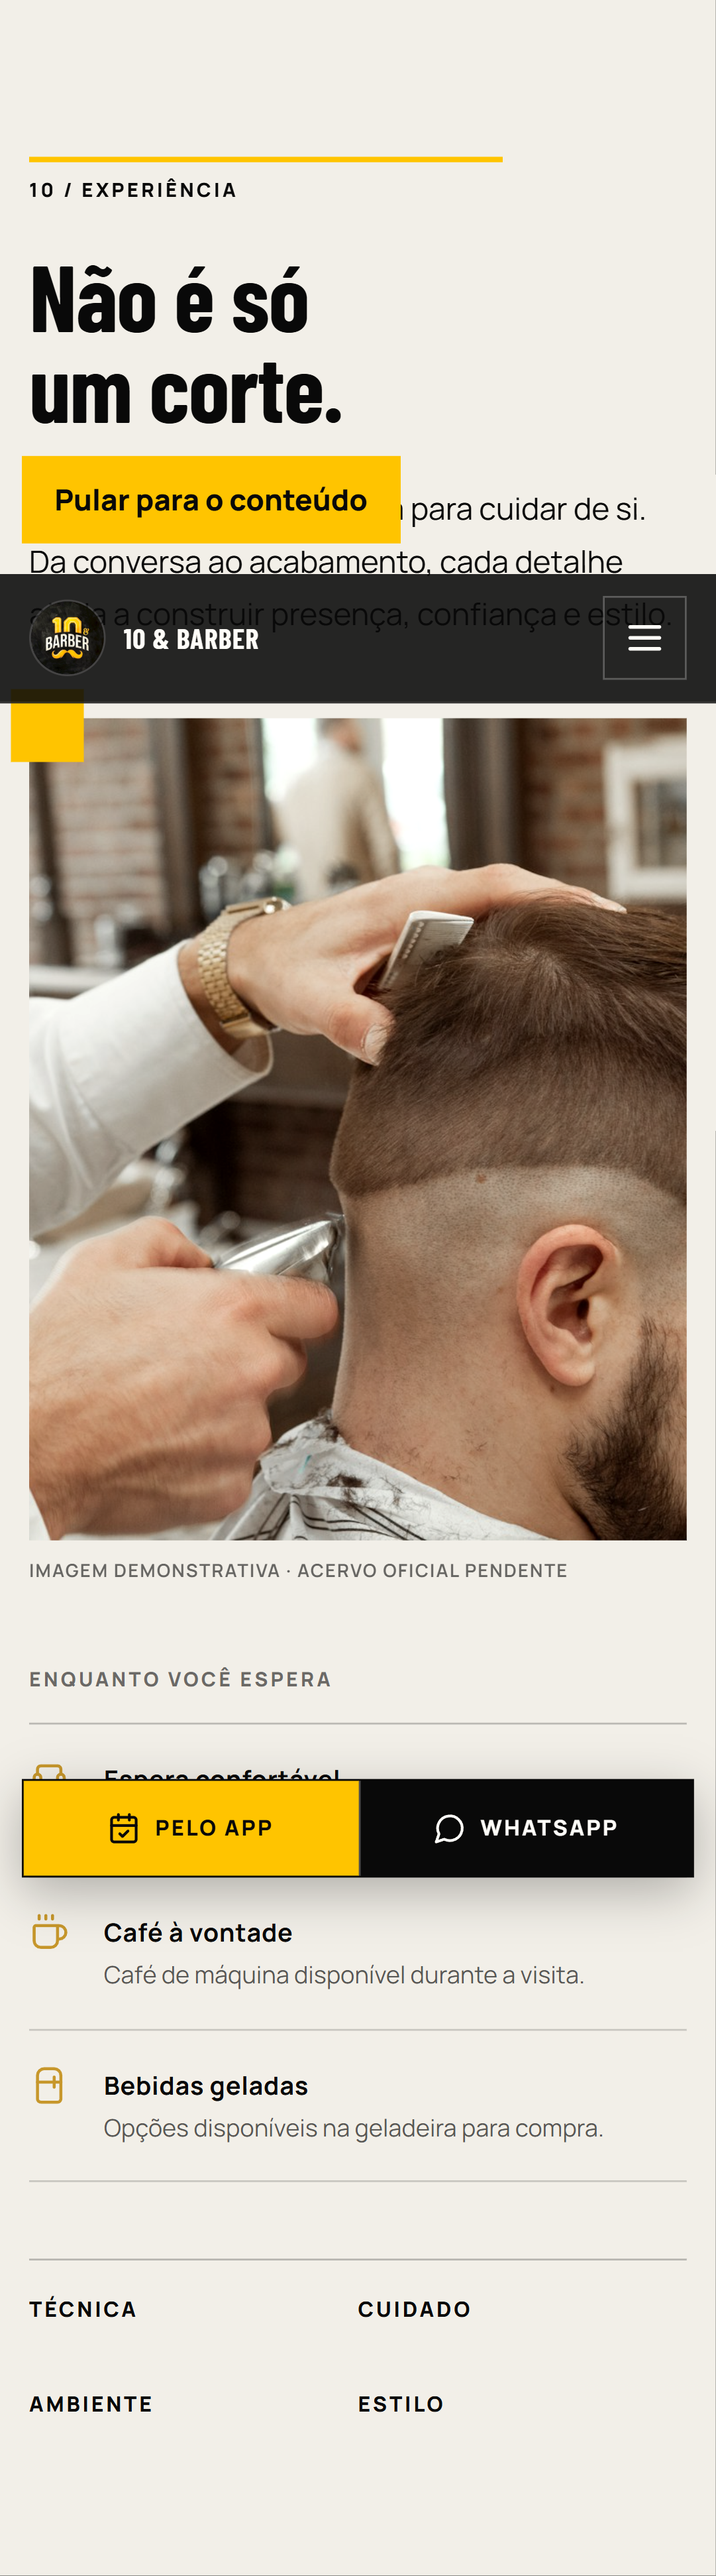
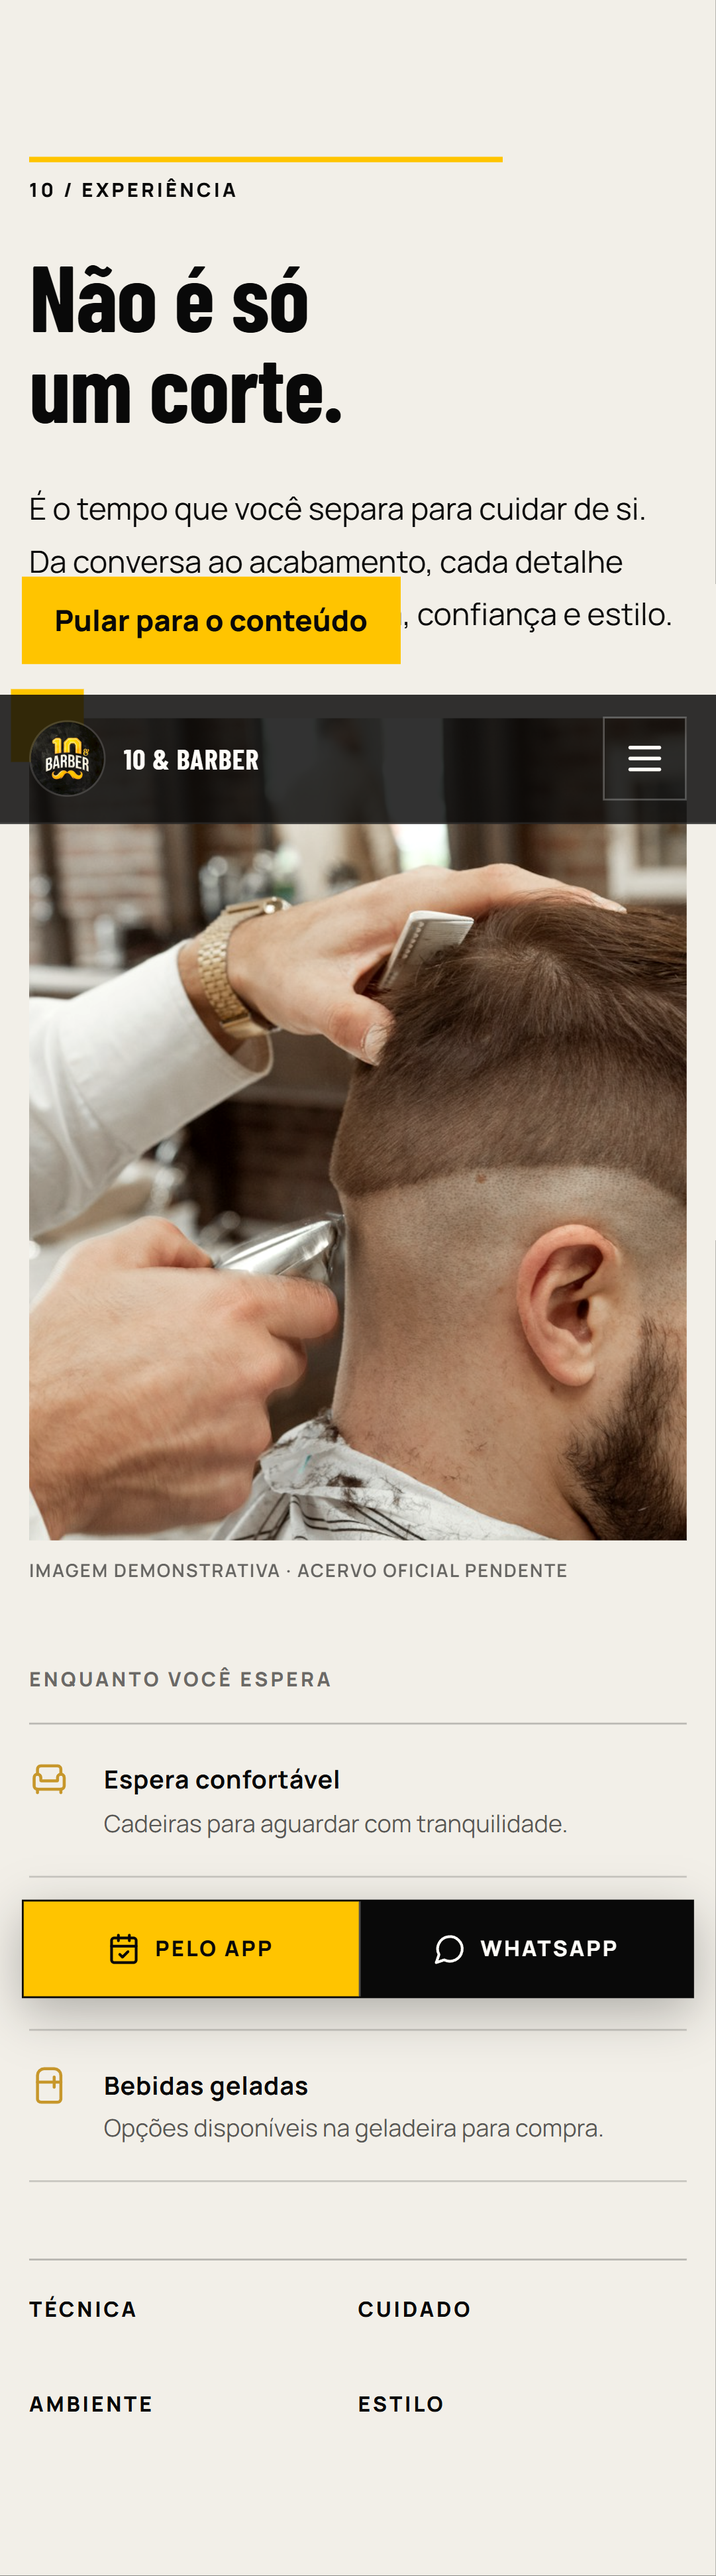
Subindo mais correcoes

Changed region(s): [[0.0, 0.1557, 1.0, 0.3425], [0.0, 0.685, 0.9769, 0.8096]]

diff --git a/codex-premium-landing-page-kit-v2/tests/home.spec.ts b/codex-premium-landing-page-kit-v2/tests/home.spec.ts
@@ -58,6 +58,10 @@ test('home comunica a marca e oferece o agendamento', async ({ page }, testInfo)
   await expect(page.getByText('Platinado', { exact: true })).toBeVisible()
   await expect(page.getByText('Café à vontade', { exact: true })).toBeVisible()
   await expect(page.getByText('Bebidas geladas', { exact: true })).toBeVisible()
+  await expect(page.locator('#planos').getByRole('link', { name: /consultar condições/i })).toHaveAttribute(
+    'href',
+    /text=.*consultar.*condi%C3%A7%C3%B5es.*planos/i,
+  )
 
   const hasHorizontalOverflow = await page.evaluate(() => document.documentElement.scrollWidth > document.documentElement.clientWidth + 1)
   expect(hasHorizontalOverflow).toBe(false)
@@ -96,6 +100,45 @@ test('menu móvel é acessível e a página não cria overflow', async ({ page }
     const hasOverflow = await page.evaluate(() => document.documentElement.scrollWidth > document.documentElement.clientWidth + 1)
     expect(hasOverflow, `overflow horizontal em ${width}px`).toBe(false)
   }
+
+  for (const width of [430, 760]) {
+    await page.setViewportSize({ width, height: 800 })
+    const firstImage = await page.locator('.gallery-grid figure').nth(0).boundingBox()
+    const secondImage = await page.locator('.gallery-grid figure').nth(1).boundingBox()
+    const fourthImage = await page.locator('.gallery-grid figure').nth(3).boundingBox()
+    const fifthImage = await page.locator('.gallery-grid figure').nth(4).boundingBox()
+
+    expect(firstImage).not.toBeNull()
+    expect(secondImage).not.toBeNull()
+    expect(fourthImage).not.toBeNull()
+    expect(fifthImage).not.toBeNull()
+    expect(Math.abs((firstImage?.y ?? 0) - (secondImage?.y ?? 0)), `galeria desalinhada em ${width}px`).toBeLessThan(1)
+    expect(secondImage?.x ?? 0, `segunda coluna vazia em ${width}px`).toBeGreaterThan((firstImage?.x ?? 0) + (firstImage?.width ?? 0))
+    expect(
+      Math.abs(((fourthImage?.y ?? 0) + (fourthImage?.height ?? 0)) - ((fifthImage?.y ?? 0) + (fifthImage?.height ?? 0))),
+      `fim da galeria desalinhado em ${width}px`,
+    ).toBeLessThan(1)
+
+    await page.locator('.gallery-grid').screenshot({ path: resolve(screenshotDir, `gallery-${width}.png`) })
+  }
+
+  await page.setViewportSize({ width: 430, height: 676 })
+  const servicesGrid = await page.locator('.services-grid').boundingBox()
+  const servicesImage = await page.locator('.services-visual').boundingBox()
+  expect(servicesGrid).not.toBeNull()
+  expect(servicesImage).not.toBeNull()
+  expect(
+    Math.abs(
+      ((servicesGrid?.x ?? 0) + (servicesGrid?.width ?? 0) / 2) -
+      ((servicesImage?.x ?? 0) + (servicesImage?.width ?? 0) / 2),
+    ),
+    'imagem de serviços descentralizada em 430px',
+  ).toBeLessThan(1)
+  await page.locator('.services-visual').screenshot({ path: resolve(screenshotDir, 'services-centered-mobile.png') })
+
+  await page.evaluate(() => window.scrollTo(0, 0))
+  await page.screenshot({ path: resolve(screenshotDir, 'hero-mobile-compact.png') })
+  await expect(page.locator('.hero')).toHaveCSS('min-height', '760px')
 })
 
 test('conteúdo aparece progressivamente durante a rolagem', async ({ page }) => {
@@ -114,4 +157,32 @@ test('movimento reduzido remove animações perceptíveis', async ({ page }) => 
   const revealOpacity = await page.locator('#experiencia .experience-copy').evaluate((element) => getComputedStyle(element).opacity)
   expect(Number.parseFloat(duration)).toBeLessThan(0.001)
   expect(revealOpacity).toBe('1')
+})
+
+test('mantém o layout mobile ao voltar de outra aba', async ({ context, page }, testInfo) => {
+  test.skip(testInfo.project.name !== 'mobile-chrome', 'Cenário específico para mobile')
+  await page.setViewportSize({ width: 338, height: 655 })
+  await page.goto(process.env.E2E_EXTERNAL_URL ?? '/')
+
+  const assertMobileViewport = async () => {
+    const viewport = await page.evaluate(() => ({
+      innerWidth: window.innerWidth,
+      mobileQuery: window.matchMedia('(max-width: 390px)').matches,
+      hasOverflow: document.documentElement.scrollWidth > document.documentElement.clientWidth + 1,
+    }))
+    const title = await page.locator('.hero h1').boundingBox()
+
+    expect(viewport.innerWidth).toBe(338)
+    expect(viewport.mobileQuery).toBe(true)
+    expect(viewport.hasOverflow).toBe(false)
+    expect((title?.x ?? 0) + (title?.width ?? 0)).toBeLessThanOrEqual(338)
+  }
+
+  await assertMobileViewport()
+  const otherTab = await context.newPage()
+  await otherTab.goto('about:blank')
+  await otherTab.bringToFront()
+  await page.bringToFront()
+  await assertMobileViewport()
+  await page.screenshot({ path: resolve(screenshotDir, 'hero-mobile-tab-return.png') })
 })

diff --git a/codex-premium-landing-page-kit-v2/src/styles.css b/codex-premium-landing-page-kit-v2/src/styles.css
@@ -42,6 +42,7 @@
 }
 
 html {
+  overflow-x: clip;
   scroll-behavior: smooth;
   scroll-padding-top: 84px;
 }
@@ -51,6 +52,11 @@ body {
   min-width: 320px;
   overflow-x: clip;
   background: var(--ink);
+}
+
+#root {
+  min-width: 0;
+  overflow-x: clip;
 }
 
 body::-webkit-scrollbar {
@@ -1645,7 +1651,7 @@ figcaption {
   }
 
   .hero {
-    min-height: 820px;
+    min-height: 760px;
     align-items: end;
   }
 
@@ -1770,7 +1776,7 @@ figcaption {
     position: relative;
     top: auto;
     width: 84%;
-    margin-left: auto;
+    margin-inline: auto;
   }
 
   .services-content h2 {
@@ -1878,7 +1884,11 @@ figcaption {
   }
 
   .gallery-wide {
-    grid-column: span 2;
+    grid-column: span 1;
+  }
+
+  .gallery-grid figure:nth-child(5) {
+    grid-row: span 1;
   }
 
   .gallery-grid figcaption {

diff --git a/codex-premium-landing-page-kit-v2/src/components/Membership.tsx b/codex-premium-landing-page-kit-v2/src/components/Membership.tsx
@@ -1,5 +1,5 @@
 import { ArrowUpRight, Check } from 'lucide-react'
-import { WHATSAPP_URL } from '../data/site'
+import { PLANS_WHATSAPP_URL } from '../data/site'
 
 export function Membership() {
   return (
@@ -18,7 +18,7 @@ export function Membership() {
             <li><Check aria-hidden="true" /> Desconto em serviços extras</li>
           </ul>
           <p className="membership-disclaimer">Valores, frequência, regras e disponibilidade devem ser confirmados com a equipe.</p>
-          <a className="button button--dark" href={WHATSAPP_URL} target="_blank" rel="noreferrer">
+          <a className="button button--dark" href={PLANS_WHATSAPP_URL} target="_blank" rel="noreferrer">
             Consultar condições <ArrowUpRight aria-hidden="true" />
           </a>
         </div>

diff --git a/codex-premium-landing-page-kit-v2/src/data/site.ts b/codex-premium-landing-page-kit-v2/src/data/site.ts
@@ -3,6 +3,7 @@ export const BOOKING_URL = import.meta.env.VITE_BOOKING_URL || 'https://agendame
 export const INSTAGRAM_URL = import.meta.env.VITE_INSTAGRAM_URL || 'https://www.instagram.com/dezebarber/'
 export const WHATSAPP_URL = import.meta.env.VITE_WHATSAPP_URL ||
   'https://wa.me/5531984989858?text=Ol%C3%A1%21%20Vim%20pelo%20site%20da%2010%20%26%20Barber%20e%20gostaria%20de%20agendar%20um%20hor%C3%A1rio.'
+export const PLANS_WHATSAPP_URL = `${WHATSAPP_URL.split('?')[0]}?text=${encodeURIComponent('Olá! Vim pelo site da 10 & Barber e gostaria de consultar as condições dos planos.')}`
 
 export type NavItem = {
   label: string

diff --git a/codex-premium-landing-page-kit-v2/VISUAL-QA-CHECKLIST.md b/codex-premium-landing-page-kit-v2/VISUAL-QA-CHECKLIST.md
@@ -6,8 +6,8 @@ Registre evidências após abrir a página real. Não marque por inspeção ment
 
 - URL/ambiente: build de produção em `http://127.0.0.1:4173/`
 - Data: 08/10/2026
-- Viewports inspecionados: desktop 1280×720 e 1440×900; mobile 390×844 e 393×851; overflow automatizado em 320, 375, 390 e 430 px
-- Screenshots/arquivos: `screenshots/home-desktop.png`, `screenshots/home-mobile.png`, `screenshots/home-mobile-hero.png`, `screenshots/hero-desktop.png`, `screenshots/hero-mobile.png`, `screenshots/services-desktop.png`, `screenshots/services-mobile.png`, `screenshots/locations-desktop.png`, `screenshots/locations-mobile.png`, `screenshots/experience-desktop.png`, `screenshots/experience-mobile.png`
+- Viewports inspecionados: desktop 1280×720 e 1440×900; mobile 390×844, 393×851 e 430×676; galeria também verificada em 430 e 760 px; overflow automatizado em 320, 375, 390 e 430 px
+- Screenshots/arquivos: `screenshots/home-desktop.png`, `screenshots/home-mobile.png`, `screenshots/home-mobile-hero.png`, `screenshots/hero-mobile-compact.png`, `screenshots/hero-mobile-tab-return.png`, `screenshots/gallery-430.png`, `screenshots/gallery-760.png`, `screenshots/hero-desktop.png`, `screenshots/hero-mobile.png`, `screenshots/services-desktop.png`, `screenshots/services-mobile.png`, `screenshots/services-centered-mobile.png`, `screenshots/locations-desktop.png`, `screenshots/locations-mobile.png`, `screenshots/experience-desktop.png`, `screenshots/experience-mobile.png`
 - Navegadores: Google Chrome via Playwright
 
 ## Primeira crítica
@@ -49,6 +49,11 @@ Registre evidências após abrir a página real. Não marque por inspeção ment
 | Média | Desktop/mobile | A seção Experiência parecia dispersa e a coluna esquerda tinha espaço negativo excessivo | Reorganizar em uma grade clara: fotografia à esquerda, mensagem ao centro e comodidades ampliadas à direita; empilhar em ordem editorial no mobile | Sim |
 | Média | Screenshots | Imagens lazy não apareciam na captura de página inteira | Rolagem controlada para carregar mídia antes da screenshot | Sim |
 | Baixa | Todos | Pacotes de fonte carregavam alfabetos desnecessários | Carregar apenas os arquivos Latin necessários ao português | Sim |
+| Alta | Mobile 391–760 px | A primeira foto vertical da galeria deixava a segunda coluna vazia porque as imagens largas ainda ocupavam duas colunas | Manter as imagens largas em uma coluna nesse intervalo e alinhar o fim da composição | Sim |
+| Média | Mobile | O conteúdo do hero começava baixo demais e criava espaço excessivo abaixo do cabeçalho | Reduzir a altura mínima mobile de 820 para 760 px, preservando respiro e legibilidade | Sim |
+| Alta | Mobile/retorno de aba | O modo responsivo do DevTools exibiu uma restauração visual cortada em 338×655 | Bloquear overflow horizontal também em `html` e `#root`; adicionar regressão com troca real de abas na build local e no deploy | Sim; a falha não foi reproduzida no Chrome automatizado |
+| Baixa | Mobile | A fotografia ativa da seção de serviços ficava encostada à direita | Centralizar o quadro de 84% com margem automática nos dois lados | Sim |
+| Média | Planos | O CTA “Consultar condições” reutilizava a mensagem genérica de agendamento | Criar um link de WhatsApp específico solicitando as condições dos planos | Sim |
 
 ## Segunda passada obrigatória
 
@@ -59,7 +64,7 @@ Registre evidências após abrir a página real. Não marque por inspeção ment
 - [x] Revisei estados hover, focus e active; não há controles desabilitados nesta versão
 - [x] Revisei motion e `prefers-reduced-motion`
 - [x] Reinspecionei screenshots desktop e mobile após as mudanças
-- [x] Registrei o que mudou perceptivelmente: catálogo expandido, três unidades, horários, escolha entre app/WhatsApp, comodidades da experiência e nova hierarquia tipográfica com Barlow Condensed, títulos menores e acentos livres de colisão
+- [x] Registrei o que mudou perceptivelmente: catálogo expandido, três unidades, horários, escolha entre app/WhatsApp, CTA de planos contextual, comodidades da experiência, nova hierarquia tipográfica com Barlow Condensed, hero mobile mais compacto, imagem de serviços centralizada e galeria mobile sem lacunas entre as fotos
 
 ## Veredito
 
